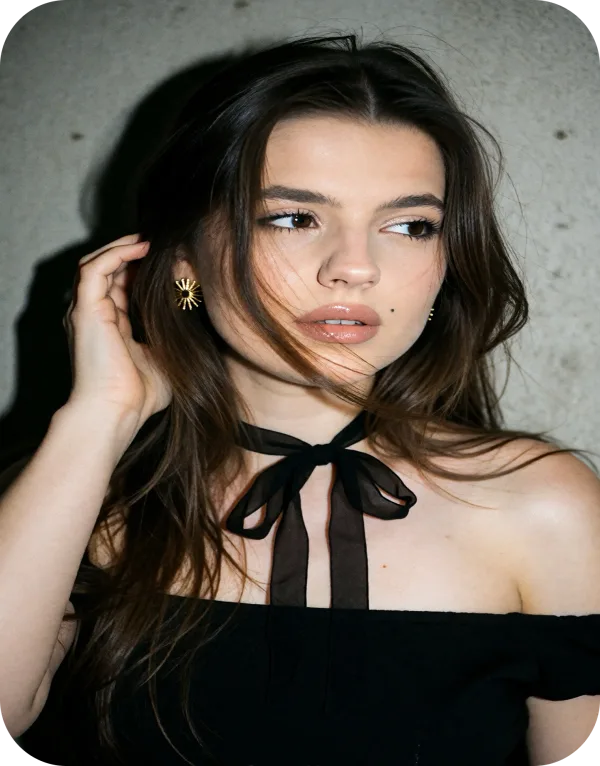
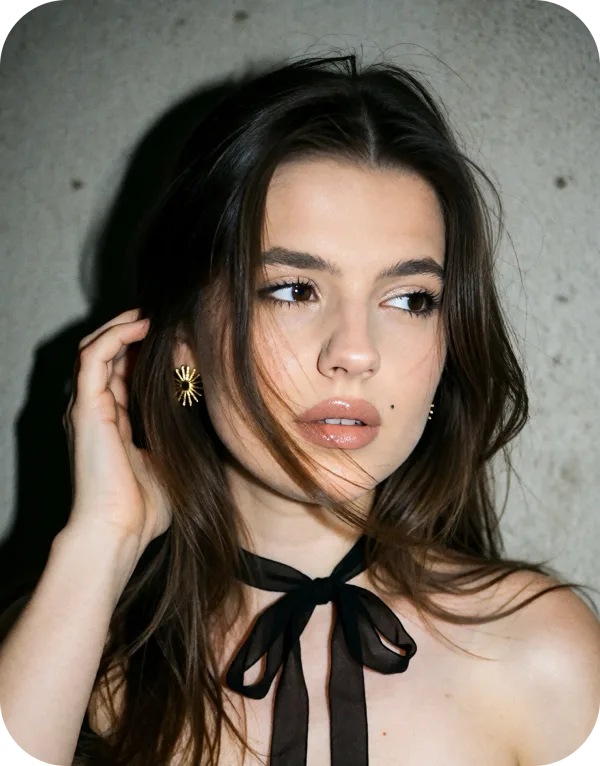
Buttons sized to reference, marquee drag + speed, new photo 08

diff --git a/code/course-marquee.html b/code/course-marquee.html
@@ -1,22 +1,23 @@
 <!-- =========================================================
      БЕГУЩАЯ СТРОКА ФОТО в блоке «курс».
-     • фото: файлы m-01.webp … m-10.webp на GitHub (assets/marquee); список повторён 2 раза — так строка бесшовная;
-     • скорость: --adv-mq-time (больше секунд — медленнее);
+     • фото: файлы m-01.webp … m-10.webp на GitHub (assets/marquee);
+     • скорость: SPEED ниже — сколько высот фото проезжает за секунду (больше — быстрее);
+     • строку можно листать: мышью (зажать и тянуть) и пальцем; после отпускания она едет дальше сама;
      • размер строки = размер этого HTML-элемента в Зеро (фото всегда во всю его высоту).
      ========================================================= -->
 <style>
   /* строка лежит поверх бежевой карточки (слой в Зеро может быть ниже — поднимаем тут) */
   .t396__elem:has(.adv-mq) { z-index: 20 !important; }
   .adv-mq {
-    --adv-mq-time: 90s;
     position: absolute; inset: 0; overflow: hidden;
     container-type: size;
+    cursor: grab; touch-action: pan-y; user-select: none; -webkit-user-select: none;
     -webkit-mask-image: linear-gradient(90deg, transparent 0, #000 9%);
             mask-image: linear-gradient(90deg, transparent 0, #000 9%);
   }
+  .adv-mq.is-drag { cursor: grabbing; }
   .adv-mq__track {
     display: flex; height: 100%; width: max-content;
-    animation: adv-mq var(--adv-mq-time) linear infinite;
     will-change: transform;
   }
   .adv-mq__track img {
@@ -27,13 +28,9 @@
     object-fit: cover;
     -webkit-user-drag: none; user-select: none; pointer-events: none;
   }
-  @keyframes adv-mq { from { transform: translate3d(0, 0, 0); } to { transform: translate3d(-50%, 0, 0); } }
   /* телефон и планшет: строка во всю ширину, без затухания слева */
   @media (max-width: 959px) {
     .adv-mq { -webkit-mask-image: none; mask-image: none; }
-  }
-  @media (prefers-reduced-motion: reduce) {
-    .adv-mq__track { animation-duration: 240s; }
   }
 </style>
 <div class="adv-mq" aria-hidden="true"><div class="adv-mq__track"></div></div>
@@ -41,15 +38,68 @@
 (function () {
   var BASE = 'https://dashkoy1.github.io/advent-calendar/assets/marquee/m-';
   var N = 10;
-  document.querySelectorAll('.adv-mq__track').forEach(function (track) {
-    if (track.children.length) { return; }
+  var V = 2;          // версия фото — увеличить, если заменили файлы на GitHub
+  var SPEED = 0.13;   // высот фото в секунду (было ≈0.09)
+
+  document.querySelectorAll('.adv-mq').forEach(function (box) {
+    var track = box.querySelector('.adv-mq__track');
+    if (!track || track.dataset.ready) { return; }
+    track.dataset.ready = '1';
     var html = '';
-    for (var r = 0; r < 2; r++) {
+    for (var r = 0; r < 3; r++) {
       for (var i = 1; i <= N; i++) {
-        html += '<img src="' + BASE + (i < 10 ? '0' + i : i) + '.webp" alt="" decoding="async" draggable="false">';
+        html += '<img src="' + BASE + (i < 10 ? '0' + i : i) + '.webp?v=' + V + '" alt="" decoding="async" draggable="false">';
       }
     }
     track.innerHTML = html;
+
+    var reduce = window.matchMedia && window.matchMedia('(prefers-reduced-motion: reduce)').matches;
+    var x = 0, vel = 0, drag = false, lastX = 0, lastT = 0, moved = 0, prev = 0, visible = true;
+
+    function period() { return track.scrollWidth / 3; }
+    function wrap() {
+      var p = period(); if (!p) { return; }
+      while (x <= -p) { x += p; }
+      while (x > 0) { x -= p; }
+    }
+    function frame(t) {
+      var dt = prev ? Math.min((t - prev) / 1000, .05) : 0; prev = t;
+      if (!drag && visible) {
+        var auto = reduce ? 0 : -SPEED * box.clientHeight;
+        vel += (auto - vel) * Math.min(1, dt * 2.2);   // после броска плавно возвращаемся к своей скорости
+        x += vel * dt;
+      }
+      wrap();
+      track.style.transform = 'translate3d(' + x + 'px,0,0)';
+      requestAnimationFrame(frame);
+    }
+    requestAnimationFrame(frame);
+
+    if ('IntersectionObserver' in window) {
+      new IntersectionObserver(function (e) { visible = e[0].isIntersecting; }).observe(box);
+    }
+
+    box.addEventListener('pointerdown', function (e) {
+      drag = true; moved = 0; lastX = e.clientX; lastT = performance.now(); vel = 0;
+      box.classList.add('is-drag');
+      if (box.setPointerCapture) { try { box.setPointerCapture(e.pointerId); } catch (err) {} }
+    });
+    box.addEventListener('pointermove', function (e) {
+      if (!drag) { return; }
+      var now = performance.now(), dx = e.clientX - lastX;
+      x += dx; moved += Math.abs(dx);
+      var dtm = Math.max(now - lastT, 1);
+      vel = vel * .6 + (dx / dtm * 1000) * .4;
+      lastX = e.clientX; lastT = now;
+    });
+    function end() {
+      if (!drag) { return; }
+      drag = false; box.classList.remove('is-drag');
+      vel = Math.max(-2500, Math.min(2500, vel));
+    }
+    box.addEventListener('pointerup', end);
+    box.addEventListener('pointercancel', end);
+    box.addEventListener('lostpointercapture', end);
   });
 })();
 </script>

diff --git a/code/block4-popup.html b/code/block4-popup.html
@@ -113,14 +113,14 @@
   /* Поделиться */
   .adv-pop__share {
     display: flex; align-items: center; justify-content: center; gap: calc(34 * var(--u));
-    height: calc(138 * var(--u));
+    height: calc(170 * var(--u));
     background: #0f182d; border-radius: calc(30 * var(--u));
   }
   .adv-pop__share-btn {
-    width: calc(272 * var(--u)); height: calc(78.5 * var(--u));
-    border-radius: calc(11.8 * var(--u));
+    width: calc(390.4 * var(--u)); height: calc(126.4 * var(--u));
+    border-radius: calc(19.2 * var(--u));
     background: radial-gradient(60% 80% at 50% 0%, rgba(255, 245, 232, .7), rgba(255, 245, 232, 0)), #fce6cd;
-    color: #704f2a; font-weight: 700; font-size: max(10px, calc(13.6 * var(--u)));
+    color: #704f2a; font-weight: 700; font-size: max(11px, calc(19.2 * var(--u)));
   }
   .adv-pop__share-text {
     margin: 0; color: #fff;
@@ -163,9 +163,9 @@
   }
   .adv-pop__gift {
     margin-top: calc(30 * var(--u));
-    width: calc(391 * var(--u)); height: calc(127 * var(--u));
-    border-radius: calc(19.5 * var(--u));
-    font-size: calc(19.3 * var(--u)); gap: .33em;
+    width: calc(390.4 * var(--u)); height: calc(126.4 * var(--u));
+    border-radius: calc(19.2 * var(--u));
+    font-size: max(11px, calc(19.2 * var(--u))); gap: .33em;
     box-shadow: 0 calc(58.9 * var(--u)) calc(54 * var(--u)) calc(-39.3 * var(--u)) rgba(0, 0, 0, .3);
   }
   .adv-pop__gift img { width: .83em; height: auto; }
@@ -181,11 +181,17 @@
   }
   .adv-pop__photos { display: none; }
   .adv-pop__more {
-    width: calc(327.6 * var(--u)); height: calc(106.5 * var(--u));
-    border-radius: calc(16.4 * var(--u));
-    font-size: max(11px, calc(16.2 * var(--u)));
-    box-shadow: 0 calc(49.4 * var(--u)) calc(45.3 * var(--u)) calc(-32.9 * var(--u)) rgba(0, 0, 0, .3);
+    width: calc(390.4 * var(--u)); height: calc(126.4 * var(--u));
+    border-radius: calc(19.2 * var(--u));
+    font-size: max(11px, calc(19.2 * var(--u))); gap: .33em;
+    box-shadow: 0 calc(58.9 * var(--u)) calc(54 * var(--u)) calc(-39.3 * var(--u)) rgba(0, 0, 0, .3);
   }
+  /* иконка подарка, как у кнопок в Зеро */
+  .adv-pop__more::before {
+    content: ""; display: block; flex: none; width: .83em; height: .78em;
+    background: url("https://dashkoy1.github.io/advent-calendar/assets/img/gift.svg") center / contain no-repeat;
+  }
+  .adv-pop__more--m::before { filter: brightness(0) saturate(100%) invert(31%) sepia(30%) saturate(700%) hue-rotate(350deg) brightness(.9); }
   .adv-pop__more--m { display: none; }
   .adv-pop__promo-text { margin: 0; }
   .adv-pop__promo-title {
@@ -219,8 +225,8 @@
     .adv-pop .d { display: none; }
     .adv-pop .m { display: inline; }
     .adv-pop__share-btn {
-      width: calc(233 * var(--m)); height: calc(56 * var(--m));
-      border-radius: calc(8.4 * var(--m)); font-size: max(10px, calc(9.45 * var(--m)));
+      width: min(78.4vw, 100%); height: min(25.47vw, 122px);
+      border-radius: min(4.06vw, 20px); font-size: min(3.75vw, 18px);
     }
 
     .adv-pop__card {
@@ -244,10 +250,10 @@
     .adv-pop__desc { max-width: none; margin: calc(14 * var(--m)) calc(-24 * var(--m)) 0; font-size: calc(15.8 * var(--m)); line-height: 1.29; }
     .adv-pop__gift {
       margin-top: calc(27.5 * var(--m));
-      width: 100%; height: calc(82 * var(--m));
-      border-radius: calc(12.6 * var(--m));
-      font-size: max(12px, calc(12.1 * var(--m)));
-      box-shadow: 0 calc(38 * var(--m)) calc(34.9 * var(--m)) calc(-25.4 * var(--m)) rgba(0, 0, 0, .3);
+      width: 100%; height: min(25.47vw, 122px);
+      border-radius: min(4.06vw, 20px);
+      font-size: min(3.75vw, 18px);
+      box-shadow: 0 min(11.8vw, 56.6px) min(10.8vw, 51.9px) max(-7.86vw, -37.7px) rgba(0, 0, 0, .3);
     }
 
     .adv-pop__promo {
@@ -278,9 +284,9 @@
 
     .adv-pop__more--m {
       display: inline-flex;
-      width: 100%; height: calc(82 * var(--m));
-      border-radius: calc(12.6 * var(--m));
-      background: #f6e4d8; color: #704f2a; font-size: max(12px, calc(12.1 * var(--m))); font-weight: 700;
+      width: 100%; height: min(25.47vw, 122px);
+      border-radius: min(4.06vw, 20px);
+      background: #f6e4d8; color: #704f2a; font-size: min(3.75vw, 18px); font-weight: 700;
       box-shadow: none;
     }
     .adv-pop-ov .adv-pop__more--m { box-shadow: none; }

diff --git a/code/block3-map.html b/code/block3-map.html
@@ -165,13 +165,17 @@
   .adv-dp__timer span { display: block; margin-top: 2px; font-size: 10px; letter-spacing: .08em; text-transform: uppercase; color: rgba(255, 255, 255, .55); }
   .adv-dp__btn {
     /* единый стиль по кнопке «Обсудить проект»: #3b507d → #445b8b, Manrope 12/700, разрядка 0.3px, скругление 12px */
-    display: flex; align-items: center; justify-content: center; gap: 4px; width: 100%; height: 60px;
-    border: 0; border-radius: 12px; cursor: pointer; text-decoration: none;
-    font: 700 12px/1 'Manrope', Arial, sans-serif; letter-spacing: .3px; text-transform: uppercase; color: #fff;
+    /* размер как у кнопок Зеро на этой ширине экрана: на ПК 79px@1200 и растёт с окном, на телефоне 81.5px@320 */
+    display: flex; align-items: center; justify-content: center; gap: .33em; width: 100%; height: max(79px, 6.58vw);
+    border: 0; border-radius: max(12px, 1vw); cursor: pointer; text-decoration: none;
+    font: 700 max(12px, 1vw)/1 'Manrope', Arial, sans-serif; letter-spacing: .025em; text-transform: uppercase; color: #fff;
     background-color: #3b507d; box-shadow: 0 28px 25.5px -18.5px rgba(0, 0, 0, .3);
     transition: background-color .3s ease, transform .2s ease;
   }
-  .adv-dp__btn img { width: 10px; height: auto; display: block; flex: none; }
+  .adv-dp__btn img, .adv-dp__btn svg { width: .83em; height: auto; display: block; flex: none; }
+  @media (max-width: 959px) {
+    .adv-dp__btn { height: min(25.47vw, 122px); border-radius: min(4.06vw, 20px); font-size: min(3.75vw, 18px); }
+  }
   .adv-dp__btn:hover { background-color: #445b8b; }
   .adv-dp__btn:active { transform: scale(.98); }
   .adv-dp__btn[hidden] { display: none; }
